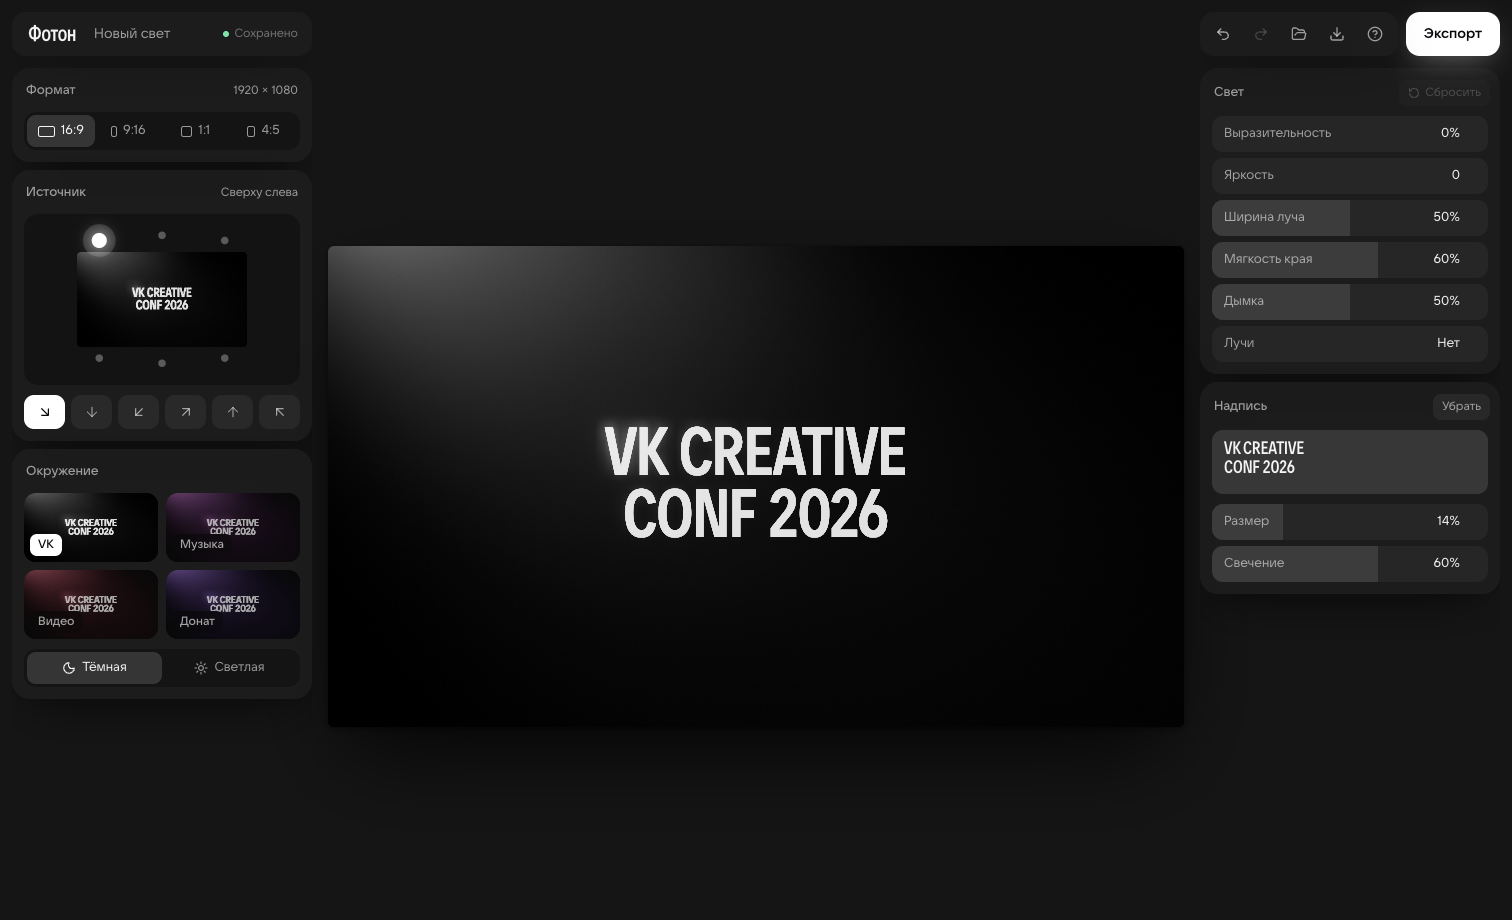
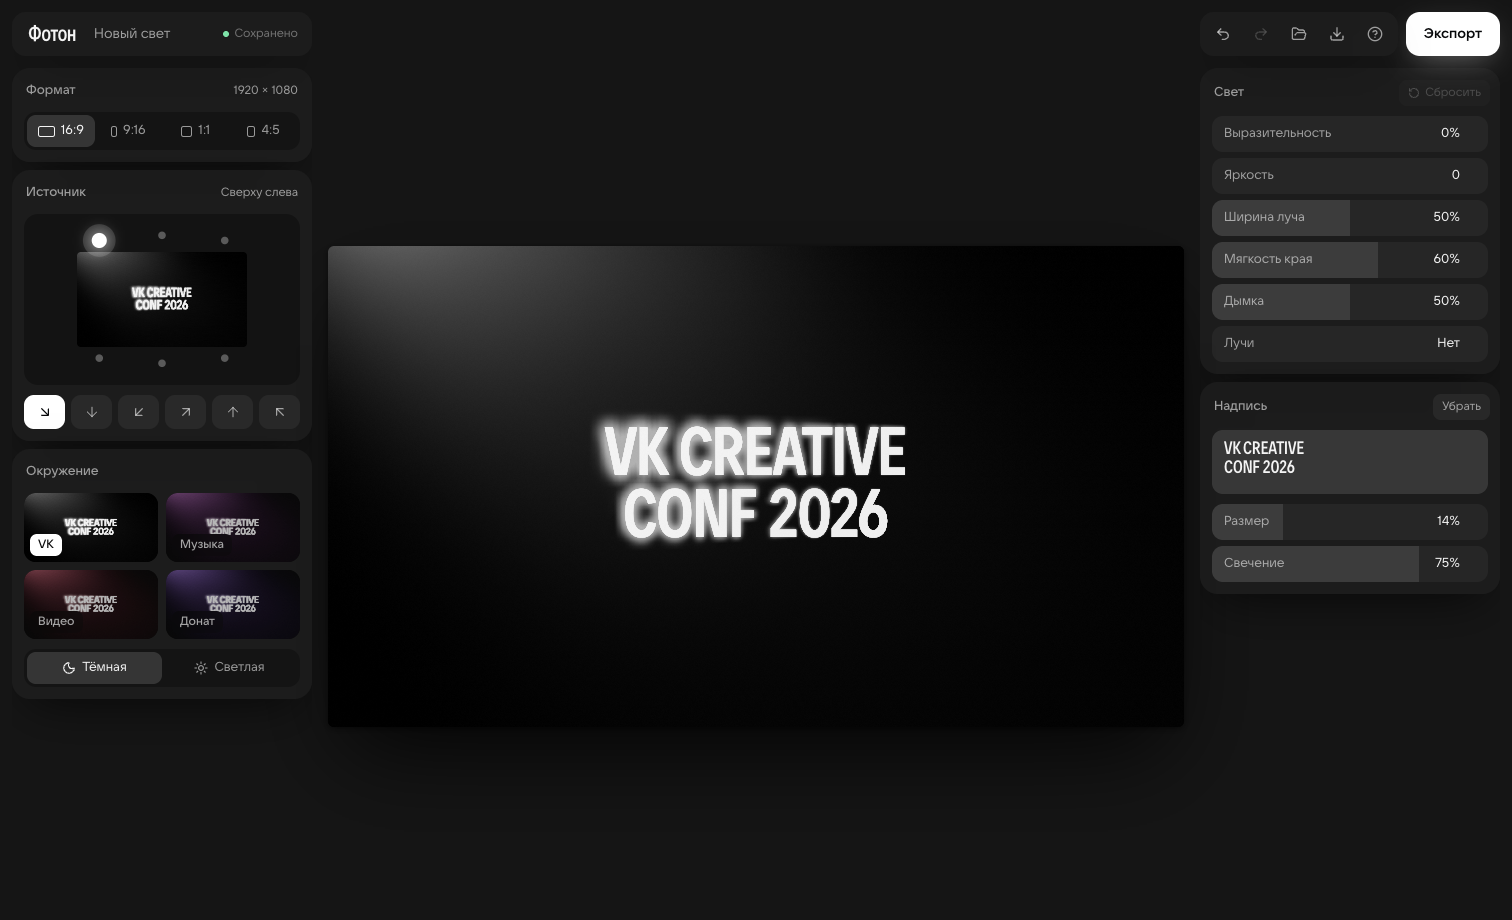
Свечение надписи по технике гайда: прогрессивное размытие копии
- Под резким слоем букв — их копия с прогрессивным размытием:
  максимум со стороны источника, к дальнему краю сходит на нет.
- Радиус в долях кегля: одинаково на холсте, в миниатюрах и в 4K
  (раньше на миниатюрах свечение раздувалось в кляксу).
- Лицо и ореол мимо bloom — без размытой «каши» у сильного света;
  ореол тусклее лица, края букв читаются.
- Мягкое размытие: mip-уровень + восемь выборок по кругу.
- Свечение по умолчанию 75%.

diff --git a/src/engine/text.ts b/src/engine/text.ts
@@ -12,9 +12,18 @@
 export const TEXT_FONT_FAMILY = 'VK Sans Display Condensed';
 const font = (px: number) => `600 ${px}px "${TEXT_FONT_FAMILY}"`;
 
+/** Что шейдеру нужно знать о надписи, кроме маски. */
+export interface TextLayout {
+  /** Половины ширины и высоты блока надписи в долях короткой стороны кадра. */
+  half: [number, number];
+  /** Кегль в пикселях текстуры — от него считается радиус свечения. */
+  px: number;
+}
+
 export class TextTexture {
   readonly tex: WebGLTexture;
   private key = '';
+  layout: TextLayout = { half: [0, 0], px: 1 };
   private readonly canvas = document.createElement('canvas');
 
   constructor(private readonly gl: WebGL2RenderingContext) {
@@ -52,6 +61,11 @@ export class TextTexture {
     if (fit < 1) ctx.font = font(Math.round(px * fit));
     const top = height / 2 - ((lines.length - 1) * lead * Math.min(1, fit)) / 2;
     lines.forEach((l, i) => ctx.fillText(l, width / 2, top + i * lead * Math.min(1, fit)));
+    const short = Math.min(width, height);
+    this.layout = {
+      half: [(widest * fit) / 2 / short, (lines.length * lead * fit) / 2 / short],
+      px: px * fit,
+    };
     this.upload(width, height, c);
     return true;
   }

diff --git a/src/domain/look.ts b/src/domain/look.ts
@@ -80,7 +80,7 @@ export const RANGES = {
   haze: { min: 0, max: 1, def: 0.5 },
   grain: { min: 0, max: 1, def: 0.4 },
   textSize: { min: 0.05, max: 0.4, def: 0.14 },
-  textGlow: { min: 0, max: 1, def: 0.6 },
+  textGlow: { min: 0, max: 1, def: 0.75 },
 } satisfies Record<string, Range>;
 export type NumericKey = keyof typeof RANGES;
 
@@ -102,7 +102,7 @@ export const DEFAULT_LOOK: Look = {
   grain: 0.4,
   text: '',
   textSize: 0.14,
-  textGlow: 0.6,
+  textGlow: 0.75,
   motion: { enabled: false, toAngle: 45, duration: 8 },
 };
 

diff --git a/src/engine/renderer.ts b/src/engine/renderer.ts
@@ -200,6 +200,8 @@ export class Renderer {
       .int('uTextOn', hasText ? 1 : 0)
       .texture('uText', this.text.tex)
       .vec2('uTextTexel', 1 / w, 1 / h)
+      .vec2('uTextHalf', ...this.text.layout.half)
+      .float('uTextPx', this.text.layout.px)
       .float('uTextGlow', p.text.glow);
     gl.disable(gl.BLEND);
     this.draw();

diff --git a/docs/architecture.md b/docs/architecture.md
@@ -30,7 +30,9 @@
 
 ## Надпись
 
-Текст растеризуется в маску размером с кадр (`src/engine/text.ts`, VK Sans Display Condensed) с mip-уровнями. Буквы плоские и белые, как в макетах гайда. Белое лицо букв пишется в альфу кадра и идёт мимо bloom (`composite.frag` добавляет его после) — поэтому буквы везде чистые и резкие. В цвет и в bloom идёт только свет лампы, отражённый буквами, с порогом: слабый свет лишь подсвечивает белое, сильный даёт пересвет и ореол. Ореол появляется у букв, на которые действительно светят, и перестраивается при смене направления. «Свечение» усиливает этот отклик.
+Сделано по технике гайда «Работа со светом»: резкий белый слой букв поверх его же копии с прогрессивным размытием (в Figma — Layer Blur → Progressive, Start 20 → End 0). Текст растеризуется в маску размером с кадр (`src/engine/text.ts`, VK Sans Display Condensed) с mip-уровнями; шейдер размывает её через mip-уровень и восемь выборок по кругу. Радиус размытия максимален со стороны источника и сходит на нет к дальнему краю надписи — ось берётся из настоящего положения лампы. Радиус задан в долях кегля, поэтому свечение одинаково на холсте, в миниатюрах и в экспорте 4K.
+
+Лицо букв и ореол пишутся в альфу кадра и добавляются после bloom (`composite.frag`): форма свечения точно как в гайде, без размытой «каши» от bloom. Ореол заметно тусклее лица, чтобы края букв не тонули. В цвет идёт только отражённый свет лампы и лёгкий оттенок бренда.
 
 ## Движение (скрыто из интерфейса)
 

diff --git a/README.md b/README.md
@@ -17,7 +17,7 @@ npm run dev
 
 - **Один свет на все направления.** Источник — угол вокруг кадра и отступ от края. Шесть направлений гайда — точки на этой оси, а не шесть разных пресетов. Свет двигают мышью прямо на холсте или по миниатюре в панели; клавиши 1–6 ставят направления гайда.
 - **Сабренды:** у VK свет белый; у Музыки, Видео и Доната свет окрашен в светлый акцент гайда (`docs/figma/`).
-- **Надпись в свете:** плоские белые буквы, как в макетах гайда. Ореол и пересвет — только у букв, на которые падает свет; дальние остаются чистыми. При смене направления это перестраивается само.
+- **Надпись в свете:** как в гайде — резкие белые буквы поверх их копии с прогрессивным размытием: свечение сильнее со стороны источника и сходит на нет к дальнему краю. Направление берётся из положения света и перестраивается само.
 - **Комнаты:** тёмная и светлая. Неосвещённая стена светлой комнаты выходит ровно #C7CBD6.
 - **Выразительность:** 0% — калибровка по кадрам гайда «Свечение. Направления»; 100% — тот же свет ярче и объёмнее, с сильным ореолом. Между ними — плавный переход.
 - **Мягкие лучи:** структура света с неровным шагом, расплывается к концу луча.
